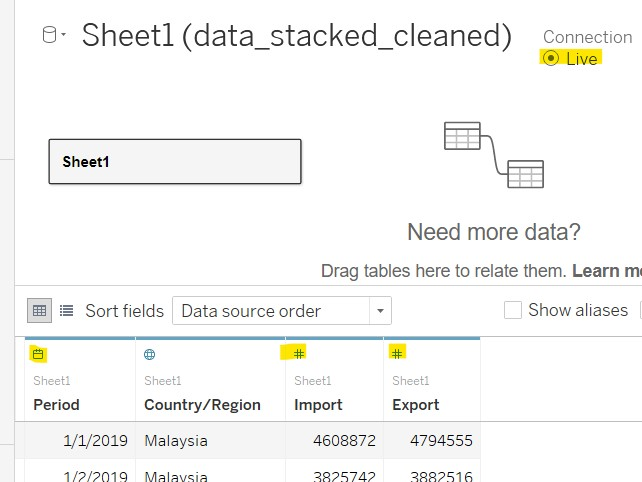
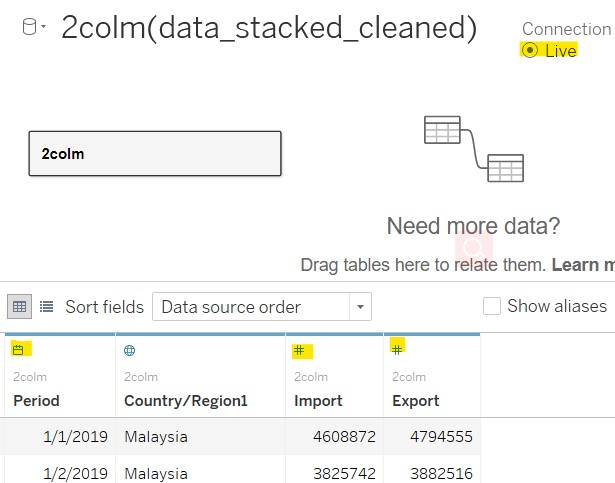
DataViz v1.0

diff --git a/_posts/2021-05-22-dataviz-makeover-1/dataviz-makeover-1.html b/_posts/2021-05-22-dataviz-makeover-1/dataviz-makeover-1.html
@@ -116,7 +116,7 @@ code span.wa { color: #5e5e5e; font-style: italic; } /* Warning */
   <!--/radix_placeholder_rmarkdown_metadata-->
   
   <script type="text/json" id="radix-resource-manifest">
-  {"type":"character","attributes":{},"value":["dataviz-makeover-1_files/anchor-4.2.2/anchor.min.js","dataviz-makeover-1_files/bowser-1.9.3/bowser.min.js","dataviz-makeover-1_files/distill-2.2.21/template.v2.js","dataviz-makeover-1_files/jquery-1.11.3/jquery.min.js","dataviz-makeover-1_files/popper-2.6.0/popper.min.js","dataviz-makeover-1_files/tippy-6.2.7/tippy-bundle.umd.min.js","dataviz-makeover-1_files/tippy-6.2.7/tippy-light-border.css","dataviz-makeover-1_files/tippy-6.2.7/tippy.css","dataviz-makeover-1_files/tippy-6.2.7/tippy.umd.min.js","dataviz-makeover-1_files/webcomponents-2.0.0/webcomponents.js","img/Calculation_sort all CNs.jpg","img/Dashboard 1.jpg","img/image01.jpg","img/image02.jpg","img/img01_origin.png","img/step1.1.jpg","img/step1.jpg","img/step2.1.jpg","img/step2.10.jpg","img/step2.11.jpg","img/step2.12.jpg","img/step2.13.jpg","img/step2.14.jpg","img/step2.15.jpg","img/step2.16.jpg","img/step2.17.jpg","img/step2.18.jpg","img/step2.18_2.jpg","img/step2.19.jpg","img/step2.2.jpg","img/step2.20.jpg","img/step2.21.jpg","img/step2.3.jpg","img/step2.4.jpg","img/step2.5.jpg","img/step2.6.jpg","img/step2.7.jpg","img/step2.8.jpg","img/step2.9.jpg","img/step2.jpg","img/step3.jpg"]}
+  {"type":"character","attributes":{},"value":["dataviz-makeover-1_files/anchor-4.2.2/anchor.min.js","dataviz-makeover-1_files/bowser-1.9.3/bowser.min.js","dataviz-makeover-1_files/distill-2.2.21/template.v2.js","dataviz-makeover-1_files/jquery-1.11.3/jquery.min.js","dataviz-makeover-1_files/popper-2.6.0/popper.min.js","dataviz-makeover-1_files/tippy-6.2.7/tippy-bundle.umd.min.js","dataviz-makeover-1_files/tippy-6.2.7/tippy-light-border.css","dataviz-makeover-1_files/tippy-6.2.7/tippy.css","dataviz-makeover-1_files/tippy-6.2.7/tippy.umd.min.js","dataviz-makeover-1_files/webcomponents-2.0.0/webcomponents.js","img/Calculation_sort all CNs.jpg","img/Dashboard 1.jpg","img/ForAnnotation.jpg","img/image01.jpg","img/image02.jpg","img/img01_origin.png","img/Sketch1.jpg","img/step1.1.jpg","img/step1.jpg","img/step2.1.jpg","img/step2.10.jpg","img/step2.11.jpg","img/step2.12.jpg","img/step2.13.jpg","img/step2.14.jpg","img/step2.15.jpg","img/step2.16.jpg","img/step2.17.jpg","img/step2.18.jpg","img/step2.18_2.jpg","img/step2.19.jpg","img/step2.2.jpg","img/step2.20.jpg","img/step2.21.jpg","img/step2.3.jpg","img/step2.4.jpg","img/step2.5.jpg","img/step2.6.jpg","img/step2.7.jpg","img/step2.8.jpg","img/step2.9.jpg","img/step2.jpg","img/step3.jpg"]}
   </script>
   <!--radix_placeholder_navigation_in_header-->
   <!--/radix_placeholder_navigation_in_header-->
@@ -1577,7 +1577,7 @@ code span.wa { color: #5e5e5e; font-style: italic; } /* Warning */
 <h1 id="alternative-design">2. Alternative Design</h1>
 <h3 id="sketch">2.1 Sketch</h3>
 <p>The following picture shows the initial design sketch for the visualization of above topic:</p>
-<p><img src="to%20be%20updated" /> <em>Fig.3 Sketch of alternative design</em></p>
+<p><img src="img/Sketch1.jpg" /> <br> <em>Fig.3 Sketch of alternative design</em></p>
 <h3 id="advantages-of-proposed-design">2.2 Advantages of proposed design</h3>
 <p>The advantages and issues the proposed design try to overcome are listed below:</p>
 <table>
@@ -1650,12 +1650,12 @@ code span.wa { color: #5e5e5e; font-style: italic; } /* Warning */
 <tr class="even">
 <td>2</td>
 <td>Stack the data frame</td>
-<td>Add a column called “Country”, and stack the data frame using copy and paste, re-saved in a new Excel workbook named “data_stacked_cleaned”. The column contains export trade amount was named as “Export”, and the column contains import trade amount named “Import”, after stacking the data should be like the following pictures shows: <br> <img src="img/step2.jpg" /> <br> <em>Fig.5 Data frame after stacking</em></td>
+<td>Add a column called “Country”, and stack the data frame using copy and paste into new sheet called “2colm, re-saved in a new Excel workbook named”data_stacked_cleaned“. The column contains export trade amount was named as”Export“, and the column contains import trade amount named”Import", after stacking the data should be like the following pictures shows: <br> <img src="img/step2.jpg" /> <br> <em>Fig.5 Data frame after stacking</em></td>
 </tr>
 <tr class="odd">
 <td>3</td>
 <td>Import data into Tableau</td>
-<td>Launch tableau -&gt; Connect to a file “Microsoft Excel” -&gt; Select “data_stacked_cleaned”, as there is only one sheet in the workbook, it will be automatically connected. Keep the Connection type be “Live”</td>
+<td>Launch tableau -&gt; Connect to a file “Microsoft Excel” -&gt; Select “data_stacked_cleaned”, drag “2colm” sheet to right side pane and drop to connect it. Keep the Connection type be “Live”</td>
 </tr>
 <tr class="even">
 <td>4</td>
@@ -1668,9 +1668,9 @@ code span.wa { color: #5e5e5e; font-style: italic; } /* Warning */
 <p>Below list visualization steps for Worksheet in Tableau:</p>
 <table>
 <colgroup>
-<col style="width: 8%" />
-<col style="width: 45%" />
-<col style="width: 45%" />
+<col style="width: 7%" />
+<col style="width: 49%" />
+<col style="width: 43%" />
 </colgroup>
 <thead>
 <tr class="header">
@@ -1752,7 +1752,7 @@ code span.wa { color: #5e5e5e; font-style: italic; } /* Warning */
 </tr>
 <tr class="odd">
 <td>15</td>
-<td>Add Annotations for the highest and lowest quarterly total amount of export and import points by right click on the target points -&gt; Annotate -&gt; Mark…, set the font of annotation as 8, and input in the Edit Annotation pane as following accordingly: <br> <code>Maximum quarterly export amount: &lt;SUM(Export)&gt;</code> <br> <code>Maximum quarterly import amount: &lt;SUM(Import)&gt;</code> <br> <code>Minimum quarterly export amount: &lt;SUM(Export)&gt;</code> <br> <code>Minimum quarterly import amount: &lt;SUM(Import)&gt;</code> <br> Then drag the annotations to the proper position as right side figure shows</td>
+<td>Add Annotations for the highest and lowest quarterly total amount of export and import points by right click on the target points -&gt; Annotate -&gt; Mark…, set the font of annotation as 8, and input in the Edit Annotation pane as following accordingly: <br> <img src="img/ForAnnotation.jpg" style="width:100.0%" /> <br> Then drag the annotations to the proper position as right side figure shows</td>
 <td><img src="img/step2.17.jpg" style="width:100.0%" /> <br> <em>Fig.21 Create annotations</em></td>
 </tr>
 </tbody>
@@ -1774,8 +1774,8 @@ code span.wa { color: #5e5e5e; font-style: italic; } /* Warning */
 <tbody>
 <tr class="odd">
 <td>16</td>
-<td>Click the New Dashboard button and drag Sheet 1 into blank dashboard, then change the size of Dashboard as Generic Desktop (1366x768). Right click on title area on the top and select “Hide Title”. Right click on Measure Names legend and click on “Edit Title” then change the title as “Trade Type”</td>
-<td><img src="img/step2.18.jpg" style="width:100.0%" /> <br> <img src="img/step2.18_2.jpg" style="width:100.0%" /> <br> <em>Fig.22 Add Dashboard 1</em></td>
+<td>Click the New Dashboard button and drag Sheet 1 into the blank dashboard, then change the size of Dashboard as Generic Desktop (1366x768). Right click on title area on the top and select “Hide Title”. Right click on Measure Names legend and click on “Edit Title” then change the title as “Trade Type”</td>
+<td><img src="img/step2.18.jpg" style="width:100.0%" /> <br> <img src="img/step2.18_2.jpg" style="width:100.0%" /> <br> <em>Fig.22 Add Dashboard</em></td>
 </tr>
 <tr class="even">
 <td>17</td>

diff --git a/_site/posts/2021-05-22-dataviz-makeover-1/index.html b/_site/posts/2021-05-22-dataviz-makeover-1/index.html
@@ -117,7 +117,7 @@ code span.wa { color: #5e5e5e; font-style: italic; } /* Warning */
 <!--/radix_placeholder_rmarkdown_metadata-->
   
   <script type="text/json" id="radix-resource-manifest">
-  {"type":"character","attributes":{},"value":["dataviz-makeover-1_files/anchor-4.2.2/anchor.min.js","dataviz-makeover-1_files/bowser-1.9.3/bowser.min.js","dataviz-makeover-1_files/distill-2.2.21/template.v2.js","dataviz-makeover-1_files/jquery-1.11.3/jquery.min.js","dataviz-makeover-1_files/popper-2.6.0/popper.min.js","dataviz-makeover-1_files/tippy-6.2.7/tippy-bundle.umd.min.js","dataviz-makeover-1_files/tippy-6.2.7/tippy-light-border.css","dataviz-makeover-1_files/tippy-6.2.7/tippy.css","dataviz-makeover-1_files/tippy-6.2.7/tippy.umd.min.js","dataviz-makeover-1_files/webcomponents-2.0.0/webcomponents.js","img/Calculation_sort all CNs.jpg","img/Dashboard 1.jpg","img/image01.jpg","img/image02.jpg","img/img01_origin.png","img/step1.1.jpg","img/step1.jpg","img/step2.1.jpg","img/step2.10.jpg","img/step2.11.jpg","img/step2.12.jpg","img/step2.13.jpg","img/step2.14.jpg","img/step2.15.jpg","img/step2.16.jpg","img/step2.17.jpg","img/step2.18.jpg","img/step2.18_2.jpg","img/step2.19.jpg","img/step2.2.jpg","img/step2.20.jpg","img/step2.21.jpg","img/step2.3.jpg","img/step2.4.jpg","img/step2.5.jpg","img/step2.6.jpg","img/step2.7.jpg","img/step2.8.jpg","img/step2.9.jpg","img/step2.jpg","img/step3.jpg"]}
+  {"type":"character","attributes":{},"value":["dataviz-makeover-1_files/anchor-4.2.2/anchor.min.js","dataviz-makeover-1_files/bowser-1.9.3/bowser.min.js","dataviz-makeover-1_files/distill-2.2.21/template.v2.js","dataviz-makeover-1_files/jquery-1.11.3/jquery.min.js","dataviz-makeover-1_files/popper-2.6.0/popper.min.js","dataviz-makeover-1_files/tippy-6.2.7/tippy-bundle.umd.min.js","dataviz-makeover-1_files/tippy-6.2.7/tippy-light-border.css","dataviz-makeover-1_files/tippy-6.2.7/tippy.css","dataviz-makeover-1_files/tippy-6.2.7/tippy.umd.min.js","dataviz-makeover-1_files/webcomponents-2.0.0/webcomponents.js","img/Calculation_sort all CNs.jpg","img/Dashboard 1.jpg","img/ForAnnotation.jpg","img/image01.jpg","img/image02.jpg","img/img01_origin.png","img/Sketch1.jpg","img/step1.1.jpg","img/step1.jpg","img/step2.1.jpg","img/step2.10.jpg","img/step2.11.jpg","img/step2.12.jpg","img/step2.13.jpg","img/step2.14.jpg","img/step2.15.jpg","img/step2.16.jpg","img/step2.17.jpg","img/step2.18.jpg","img/step2.18_2.jpg","img/step2.19.jpg","img/step2.2.jpg","img/step2.20.jpg","img/step2.21.jpg","img/step2.3.jpg","img/step2.4.jpg","img/step2.5.jpg","img/step2.6.jpg","img/step2.7.jpg","img/step2.8.jpg","img/step2.9.jpg","img/step2.jpg","img/step3.jpg"]}
   </script>
   <!--radix_placeholder_navigation_in_header-->
 <meta name="distill:offset" content="../.."/>
@@ -2197,7 +2197,7 @@ document.addEventListener('DOMContentLoaded', function() {
 <h1 id="alternative-design">2. Alternative Design</h1>
 <h3 id="sketch">2.1 Sketch</h3>
 <p>The following picture shows the initial design sketch for the visualization of above topic:</p>
-<p><img src="to%20be%20updated" /> <em>Fig.3 Sketch of alternative design</em></p>
+<p><img src="img/Sketch1.jpg" /> <br> <em>Fig.3 Sketch of alternative design</em></p>
 <h3 id="advantages-of-proposed-design">2.2 Advantages of proposed design</h3>
 <p>The advantages and issues the proposed design try to overcome are listed below:</p>
 <table>
@@ -2270,12 +2270,12 @@ document.addEventListener('DOMContentLoaded', function() {
 <tr class="even">
 <td>2</td>
 <td>Stack the data frame</td>
-<td>Add a column called “Country”, and stack the data frame using copy and paste, re-saved in a new Excel workbook named “data_stacked_cleaned”. The column contains export trade amount was named as “Export”, and the column contains import trade amount named “Import”, after stacking the data should be like the following pictures shows: <br> <img src="img/step2.jpg" /> <br> <em>Fig.5 Data frame after stacking</em></td>
+<td>Add a column called “Country”, and stack the data frame using copy and paste into new sheet called “2colm, re-saved in a new Excel workbook named”data_stacked_cleaned“. The column contains export trade amount was named as”Export“, and the column contains import trade amount named”Import", after stacking the data should be like the following pictures shows: <br> <img src="img/step2.jpg" /> <br> <em>Fig.5 Data frame after stacking</em></td>
 </tr>
 <tr class="odd">
 <td>3</td>
 <td>Import data into Tableau</td>
-<td>Launch tableau -&gt; Connect to a file “Microsoft Excel” -&gt; Select “data_stacked_cleaned”, as there is only one sheet in the workbook, it will be automatically connected. Keep the Connection type be “Live”</td>
+<td>Launch tableau -&gt; Connect to a file “Microsoft Excel” -&gt; Select “data_stacked_cleaned”, drag “2colm” sheet to right side pane and drop to connect it. Keep the Connection type be “Live”</td>
 </tr>
 <tr class="even">
 <td>4</td>
@@ -2288,9 +2288,9 @@ document.addEventListener('DOMContentLoaded', function() {
 <p>Below list visualization steps for Worksheet in Tableau:</p>
 <table>
 <colgroup>
-<col style="width: 8%" />
-<col style="width: 45%" />
-<col style="width: 45%" />
+<col style="width: 7%" />
+<col style="width: 49%" />
+<col style="width: 43%" />
 </colgroup>
 <thead>
 <tr class="header">
@@ -2372,7 +2372,7 @@ document.addEventListener('DOMContentLoaded', function() {
 </tr>
 <tr class="odd">
 <td>15</td>
-<td>Add Annotations for the highest and lowest quarterly total amount of export and import points by right click on the target points -&gt; Annotate -&gt; Mark…, set the font of annotation as 8, and input in the Edit Annotation pane as following accordingly: <br> <code>Maximum quarterly export amount: &lt;SUM(Export)&gt;</code> <br> <code>Maximum quarterly import amount: &lt;SUM(Import)&gt;</code> <br> <code>Minimum quarterly export amount: &lt;SUM(Export)&gt;</code> <br> <code>Minimum quarterly import amount: &lt;SUM(Import)&gt;</code> <br> Then drag the annotations to the proper position as right side figure shows</td>
+<td>Add Annotations for the highest and lowest quarterly total amount of export and import points by right click on the target points -&gt; Annotate -&gt; Mark…, set the font of annotation as 8, and input in the Edit Annotation pane as following accordingly: <br> <img src="img/ForAnnotation.jpg" style="width:100.0%" /> <br> Then drag the annotations to the proper position as right side figure shows</td>
 <td><img src="img/step2.17.jpg" style="width:100.0%" /> <br> <em>Fig.21 Create annotations</em></td>
 </tr>
 </tbody>
@@ -2394,8 +2394,8 @@ document.addEventListener('DOMContentLoaded', function() {
 <tbody>
 <tr class="odd">
 <td>16</td>
-<td>Click the New Dashboard button and drag Sheet 1 into blank dashboard, then change the size of Dashboard as Generic Desktop (1366x768). Right click on title area on the top and select “Hide Title”. Right click on Measure Names legend and click on “Edit Title” then change the title as “Trade Type”</td>
-<td><img src="img/step2.18.jpg" style="width:100.0%" /> <br> <img src="img/step2.18_2.jpg" style="width:100.0%" /> <br> <em>Fig.22 Add Dashboard 1</em></td>
+<td>Click the New Dashboard button and drag Sheet 1 into the blank dashboard, then change the size of Dashboard as Generic Desktop (1366x768). Right click on title area on the top and select “Hide Title”. Right click on Measure Names legend and click on “Edit Title” then change the title as “Trade Type”</td>
+<td><img src="img/step2.18.jpg" style="width:100.0%" /> <br> <img src="img/step2.18_2.jpg" style="width:100.0%" /> <br> <em>Fig.22 Add Dashboard</em></td>
 </tr>
 <tr class="even">
 <td>17</td>
